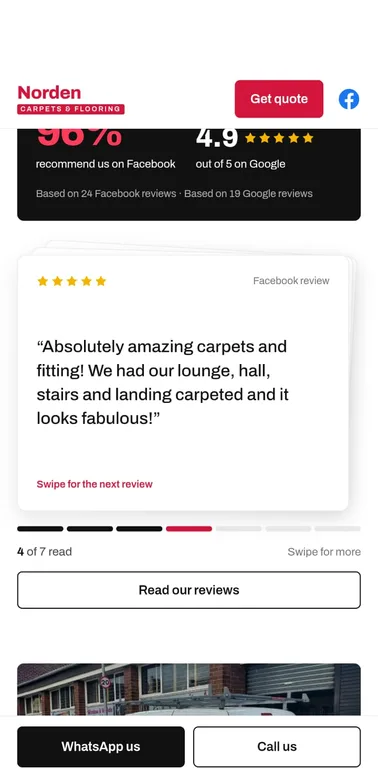
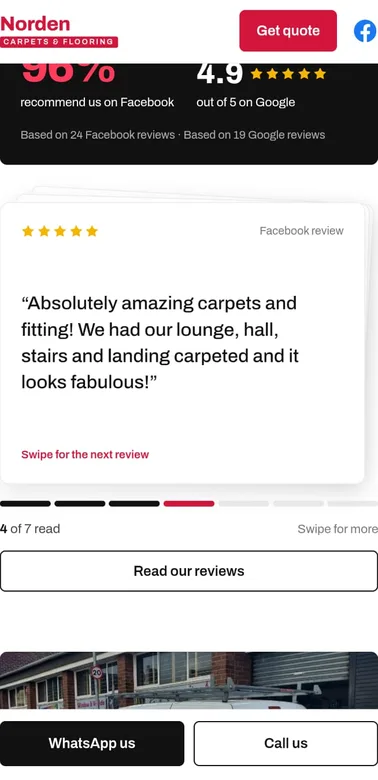
Show Norden as a screenshot preview since the site blocks framing
Norden refuses to load inside a frame, so desktop now shows a homepage
screenshot linking to the live site, and the mobile tap opens the site
in a new tab. Also tightens the phone preview crop.

Claude-Session: https://claude.ai/code/session_01D7odUKcQBi67Z99tExgeUN

diff --git a/src/components/HomeSections.tsx b/src/components/HomeSections.tsx
@@ -55,6 +55,10 @@ type DemoEntry = {
   kind: 'client' | 'concept';
   /* Phone screenshot (378 x 780 webp) shown on mobile before the live site loads */
   preview?: string;
+  /* False when the site blocks being shown in a frame: desktop shows the preview image instead */
+  embed?: boolean;
+  /* Desktop screenshot (1280 x 768 webp) used instead of the frame when embed is false */
+  desktopPreview?: string;
 };
 
 const DEMOS: DemoEntry[] = [
@@ -66,6 +70,8 @@ const DEMOS: DemoEntry[] = [
     url: 'https://nordencarpets.co.uk/',
     kind: 'client',
     preview: '/demos/norden.webp',
+    embed: false,
+    desktopPreview: '/demos/norden-desktop.webp',
   },
   {
     id: 'roofing',
@@ -142,10 +148,10 @@ const DemoLoading: React.FC<{ name: string; visible: boolean }> = ({ name, visib
   </div>
 );
 
-const TapToTry: React.FC = () => (
+const TapToTry: React.FC<{ label?: string }> = ({ label = 'Tap to try it' }) => (
   <span className="absolute inset-x-0 bottom-0 flex justify-center pb-5 pt-16 bg-gradient-to-t from-black/70 to-transparent">
     <span className="inline-flex items-center justify-center min-h-[48px] px-6 rounded-xl bg-white text-slate-900 font-bold text-base shadow-md">
-      Tap to try it
+      {label}
     </span>
   </span>
 );
@@ -183,6 +189,32 @@ const FramedDemo: React.FC<{ demo: Demo; isTouch: boolean }> = ({ demo, isTouch 
     </div>
   );
 };
+
+/* Desktop: for sites that cannot be framed, show the phone screenshot and link to the live site */
+const StaticPreview: React.FC<{ demo: Demo }> = ({ demo }) => (
+  <a
+    href={demo.url}
+    target="_blank"
+    rel="noopener noreferrer"
+    aria-label={`Open the ${demo.name} website in a new tab`}
+    className="group relative block w-full h-[600px] rounded-xl overflow-hidden border border-slate-300 dark:border-white/[0.14] bg-white"
+  >
+    <img
+      src={demo.desktopPreview ?? demo.preview}
+      alt={`${demo.name} homepage`}
+      width={1280}
+      height={768}
+      loading="lazy"
+      decoding="async"
+      className="w-full h-full object-cover object-top transition-transform duration-300 group-hover:scale-[1.01]"
+    />
+    <span className="absolute inset-x-0 bottom-0 flex justify-center pb-5 pt-16 bg-gradient-to-t from-black/50 to-transparent">
+      <span className="inline-flex items-center justify-center min-h-[48px] px-6 rounded-xl bg-white text-slate-900 font-bold text-base shadow-md">
+        Visit the live site
+      </span>
+    </span>
+  </a>
+);
 
 /* Mobile: full screen live demo, only mounted after a tap */
 const MobileDemoViewer: React.FC<{ demo: Demo; onClose: () => void }> = ({ demo, onClose }) => {
@@ -333,7 +365,13 @@ export const DemosSection: React.FC = () => {
             <button
               ref={previewRef}
               type="button"
-              onClick={() => setViewerOpen(true)}
+              onClick={() => {
+                if (active.embed === false) {
+                  window.open(active.url, '_blank', 'noopener,noreferrer');
+                } else {
+                  setViewerOpen(true);
+                }
+              }}
               aria-label={`Try the ${active.name} website full screen`}
               className="group relative block mx-auto w-full max-w-[360px] aspect-[378/780] max-h-[65dvh] rounded-xl overflow-hidden border border-slate-300 dark:border-white/[0.14] bg-slate-50 dark:bg-[#040507]"
             >
@@ -354,10 +392,14 @@ export const DemosSection: React.FC = () => {
                   <span className="text-base text-slate-600 dark:text-zinc-400">Live client website</span>
                 </span>
               )}
-              <TapToTry />
+              <TapToTry label={active.embed === false ? 'Tap to visit the site' : undefined} />
             </button>
           ) : (
-            <FramedDemo key={active.id} demo={active} isTouch={isTouch} />
+            active.embed === false && (active.desktopPreview || active.preview) ? (
+              <StaticPreview demo={active} />
+            ) : (
+              <FramedDemo key={active.id} demo={active} isTouch={isTouch} />
+            )
           )}
 
           <div className="mt-5 flex flex-col sm:flex-row sm:items-center sm:justify-between gap-4">
